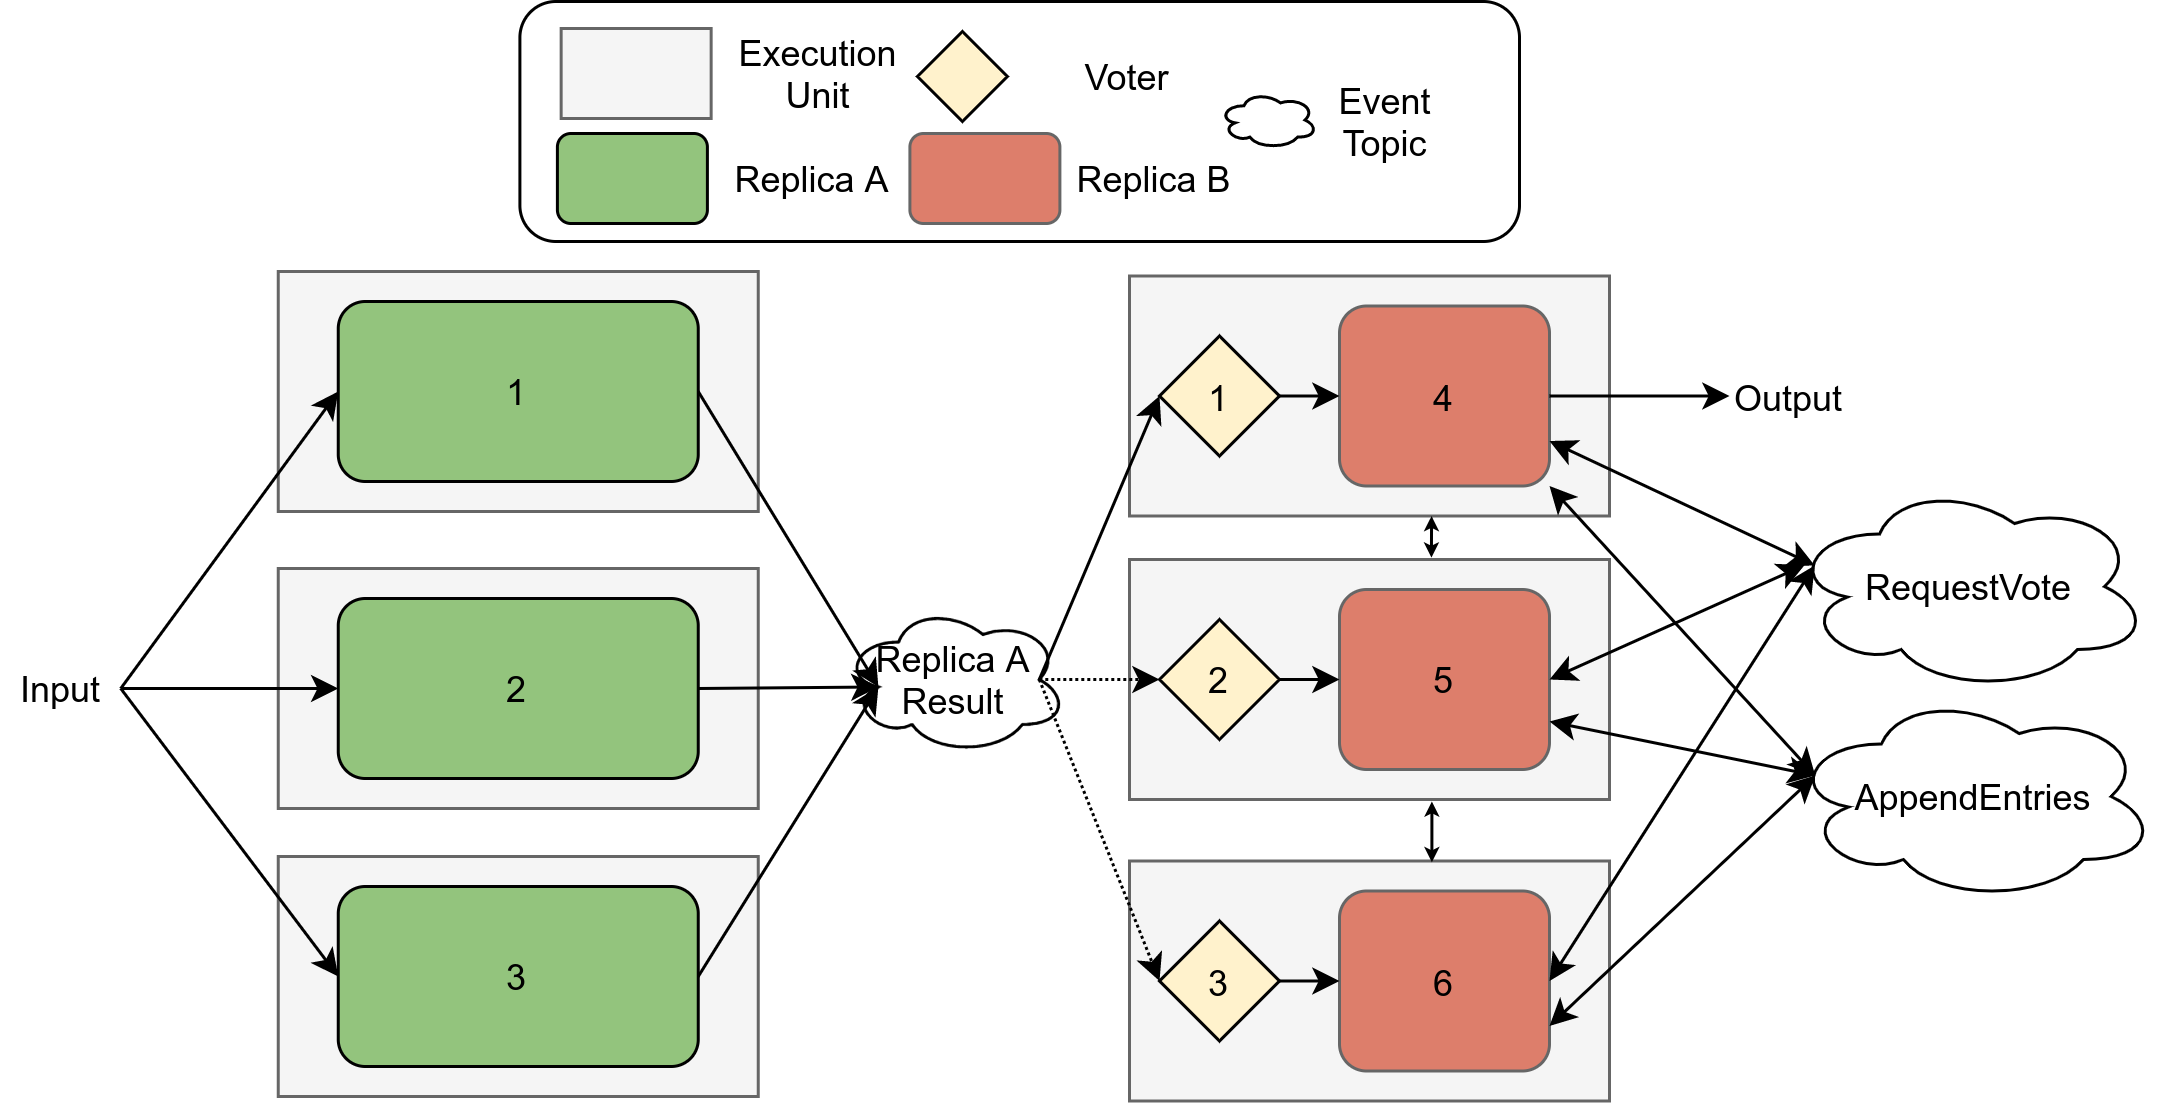
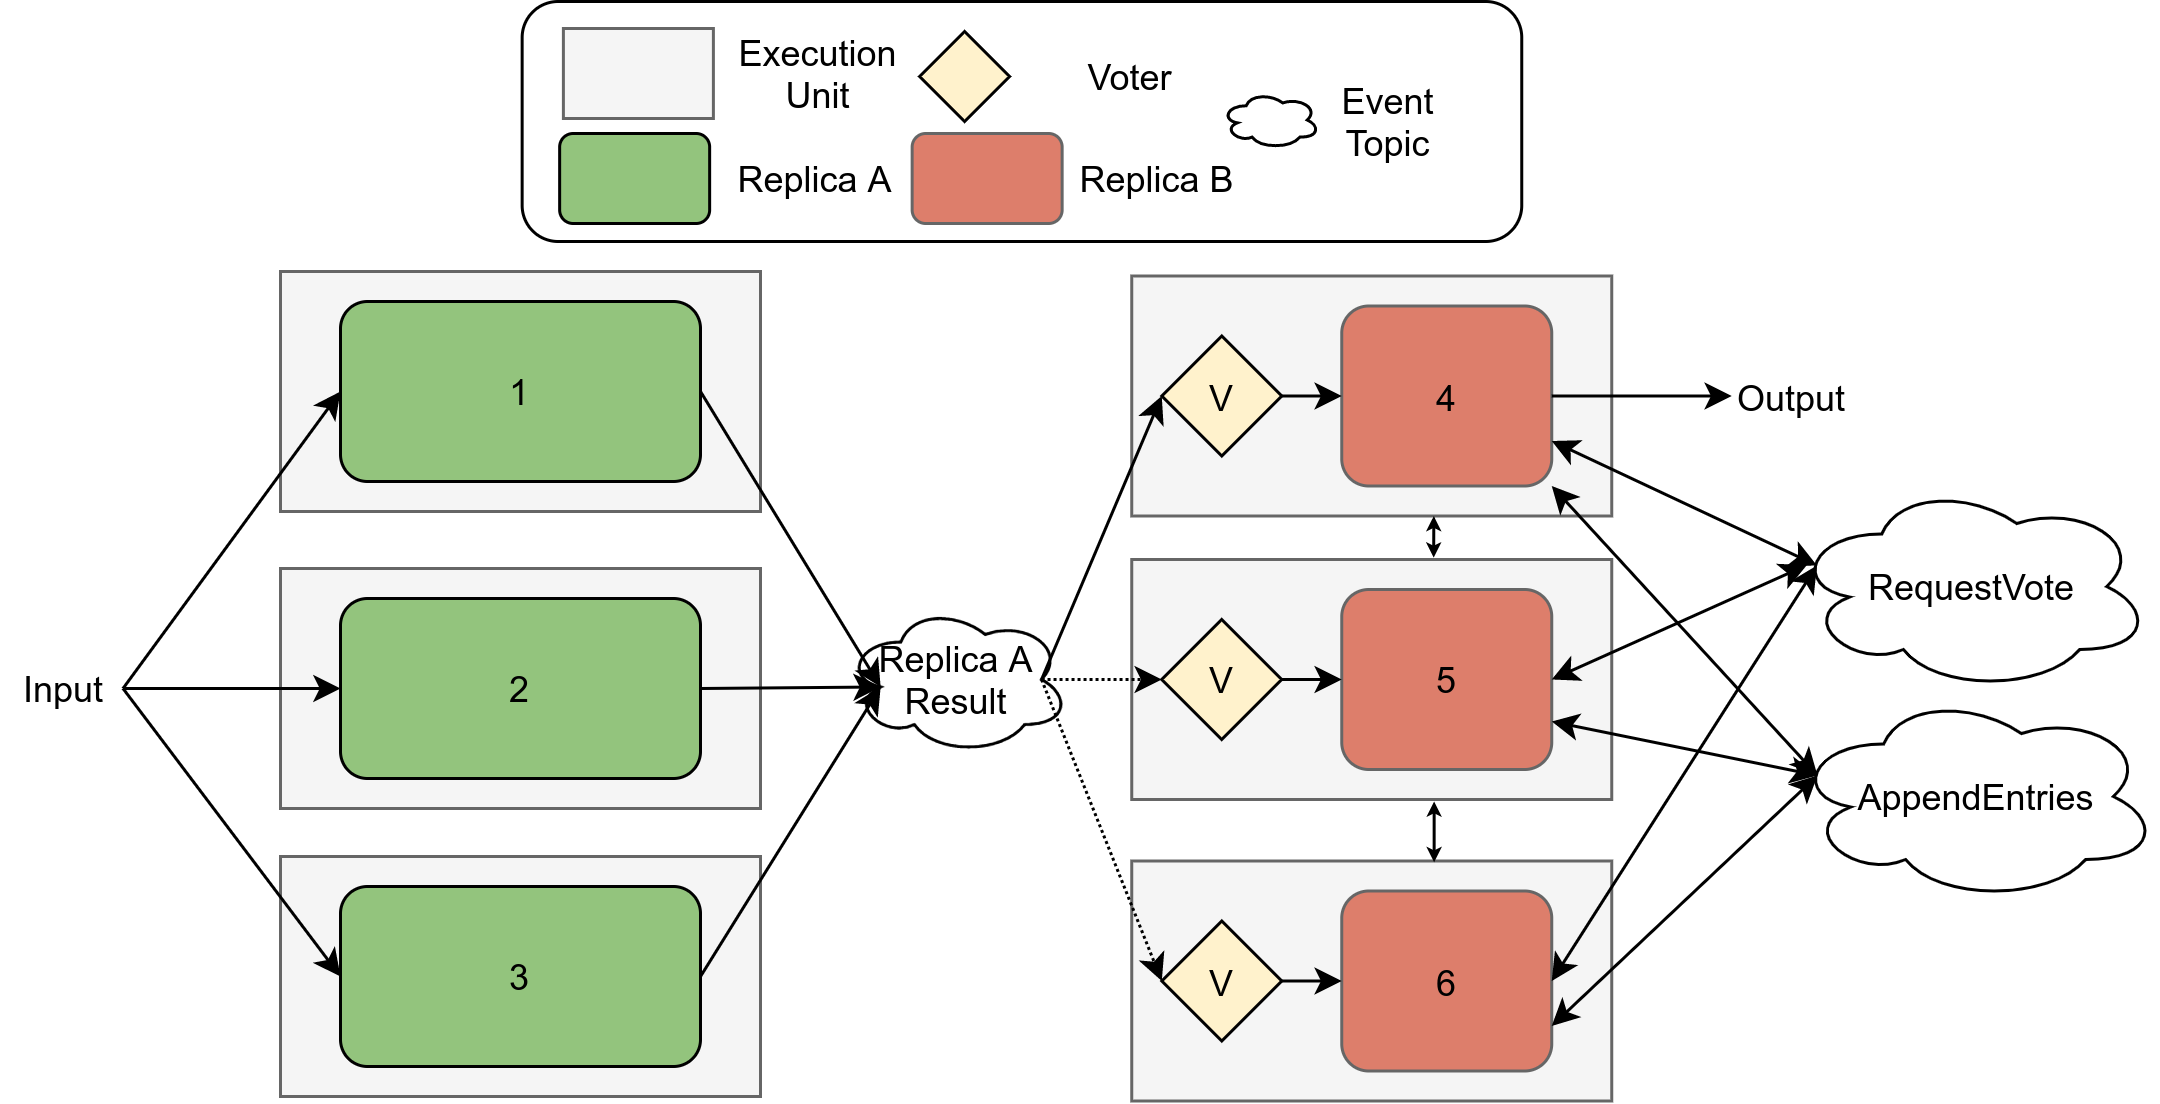
Add section about hot standby

diff --git a/content/chapter3.tex b/content/chapter3.tex
@@ -14,18 +14,20 @@ At least two \abrpl{RPC} need to be supported, namely \texttt{AppendEntries} and
 
 \autoref{fig:ThreeRepConsensusDDS} shows how the concept of \texttt{Raft}, with its roles and \abrpl{RPC}, can be implemented within a pipelined approach using \abr{DDS}.
 In this example, the replicas of type (A) publish their intermediate results in a \abr{DDS} event topic, which can be read by the individual voters.
-Voter (1) with its replica (4) took over the leader role and thereby controls the system's output by performing a majority voting over the intermediate results.
+Replica (4) with its corresponding voter took over the leader role and thereby controls the system's output by performing a majority voting over the intermediate results.
 In addition, the leader publishes periodic heartbeat messages to the \texttt{AppendEntries} topic, which are received by the followers (5) and (6).
 When a heartbeat message stayed out for a period, the system assumes that the leader has crashed and the followers initiate a new leader election using the \texttt{RequestVote} topic.
 When a new leader is elected, it gains complete control over the output, subscribes to the \texttt{Replica A Result} topic, and starts sending heartbeat messages.
 In the event of the previous leader coming back online again, it subscribes to \texttt{AppendEntries}, receives heartbeat messages and thereby takes over a follower role.
-Thereby, crash faults (\textbf{F1}) for voters are caught by the heartbeat mechanism.
+Thereby, crash faults (\textbf{F1}) for voters can be caught by the heartbeat mechanism.
 \\
 
 In this chapter, a practical realization is presented which implements a redundant architecture that applies a consensus algorithm based on the model of \texttt{Raft}.
 The aim of this implementation is to showcase the practicability and performance of a redundant architecture that applies \abr{DCPS} concepts for finding a consensus.
-Although the implementation will follow the approach presented in~\autoref{fig:ThreeRepConsensusDDS}, the logic from both replica type (A), type (B) and the voters will be merged into one physical component, so that three instead of six replicas will be used.
-However, the approach can simply be spread out to six replicas by distributing the logic accordingly.
+In addition, a minimal required subset of \abr{DDS} features will be carved out to solve the architecture.
+Although the implementation will follow the concept presented in~\autoref{fig:ThreeRepConsensusDDS}, only three physical components will be used that combine the logic from both replica type (A) and type (B), as well as a voter.
+However, the presented approach does not differ from~\autoref{fig:ThreeRepConsensusDDS} in any other ways than in the usage of three execution units instead of six.
+Therefore, it can simply be spread out to six replicas by distributing the logic accordingly.
 
 The communication channel is implemented via \textit{Ethernet} and no information redundant communication channel is applied in this demonstration.
 Further, no N-version programming is applied, which means that each replica runs the same software implementation.
@@ -44,12 +46,12 @@ The used \abr{OS} is an extended \textit{Raspbian} \abr{OS} that has been patche
 
 In this section, a consensus algorithm that follows the concepts of \texttt{Raft} and applies the \abr{DDS} publish/subscribe communication pattern, is presented.
 In order for the application to notice available data samples, \texttt{WaitSets} are used.
-\texttt{WaitSets} are preferred over \texttt{Listeners}, because they are state-based rather than event-based, which means they trigger as long as a certain state is present rather than when an event is triggered.
+\texttt{WaitSets} are preferred over \texttt{Listeners} because they are state-based rather than event-based, which means they trigger as long as a certain state is present rather than when an event is triggered.
 Thereby, it can be ensured that no available data is missed.
 Further, by using \texttt{WaitSets}, the entire control about the application is managed by the application itself and no application code is executed in middleware threads.
 \\
 
-The system's state is stored in \abr{DDS} state topics and thereby managed by the middleware.
+The system's state is stored as a global state in \abr{DDS} state topics and thereby managed by the middleware.
 This ensures that all replicas can operate on the most recent system state and no replica becomes outdated.
 Only the system's leader is permitted to alter the system's state, all other replicas have read-only access.
 \\
@@ -60,7 +62,7 @@ Time in \texttt{Raft} is subdevided into \textit{terms}, that each start with a 
 \subsection{Leader Election}
 \begin{figure}[!hb]
 	\centering
-	\includegraphics[width=0.75\linewidth]{images/sequence/CollectResults}
+	\includegraphics[width=0.75\linewidth]{images/sequence/LeaderElection}
 	\caption{When a replica notices that the leader crashed, it becomes a candidate, votes for itself and sends vote requests to all remaining replicas. When enough votes were granted, it becomes the new leader and starts sending heartbeats. Otherwise, it retries to become leader in the next term.}
 	\label{fig:SeqLeaderElection}
 \end{figure}
@@ -68,21 +70,21 @@ Time in \texttt{Raft} is subdevided into \textit{terms}, that each start with a 
 The presence of a leader in the system is detected through heartbeat messages.
 When a replica does not receive a message from a leader for a specific period of time, called the \textit{election timeout}, it tries to become leader by initiating the voting process.
 A high level overview about the voting process, after the previous leader crashed, is depicted in~\autoref{fig:SeqLeaderElection}.
-Because of the way the \texttt{election timeout} is implemented (see~\autoref{subsub:timeConsiderations}, replica 1 notices the crashed leader first and tries to become the new leader.
-Therefore, it switches into candidate mode and sends a vote request to each remaining replica.
+Replica 1 notices the crashed leader first and tries to become the new leader by switching into candidate mode and sending a vote request to each remaining replica.
 In the exemplary case in~\autoref{fig:SeqLeaderElection}, replica 2 accepts the vote request and replica 1 becomes the new leader.
 It immediately starts sending heartbeat messages afterwards.
 \\
 In the following, the allocation, as well as the collection of votes, will be discussed in more detail.
-\\
-\begin{algorithm}[H]\caption{Algorithm for vote allocation. Whether a vote gets granted or rejected depends on whether the replica that receives the vote request has already voted for another replica in the current voting's term.}\label{algo:VoteAllocation}
-\SetKwData{Term}{term}
-\SetKwData{Sender}{senderID}
+\\\\
+\begin{algorithm}[H]
+\caption{Algorithm for vote allocation. Whether a vote gets granted or rejected depends on whether the replica that receives the vote request has already voted for another replica in the current voting's term.}\label{algo:VoteAllocation}
+\SetKwData{Term}{\textit{term}}
+\SetKwData{Sender}{\textit{senderID}}
 \SetKwInOut{Input}{input}
 \SetKwInOut{Output}{output}
 
-\Input{A vote request with a \textit{\Term} and a \textit{senderID}}
-\Output{true if the vote for \textit{senderID} in \textit{\Term} was granted, false otherwise}
+\Input{A vote request with a \Term and a \Sender}
+\Output{true if the vote for \Sender in \Term was granted, false otherwise}
 \BlankLine
 \If{\Term $<$ current term}{become follower in new \Term\;}
 \If{\Term $==$ current term \textbf{AND} not voted in current term}{grant vote for \Sender\;}
@@ -91,15 +93,15 @@ In the following, the allocation, as well as the collection of votes, will be di
 The allocation of votes is shown in~\autoref{algo:VoteAllocation}.
 Each replica can only vote for a single other replica in each term.
 Because the system's state is managed globally by \abr{DDS}, every replica is equally up to data so that vote allocation is implemented in a first-come-first-serve manner.
-As soon as a vote request is received that has a higher term number than the replica's term, is automatically transitions into the follower state, because the system will soon have a new leader.
-
-\begin{algorithm}[H]\caption{Algorithm for vote collection. Only votes that were answered in the same term that the vote request was issued are considered. When enough votes are collected, the replica becomes leader. If a votes was answered in a more recent term, the vote collection gets abborted and the replica becomes a follower.}\label{algo:VoteCollection}
-\SetKwData{VoteTerm}{voteTerm}
-\SetKwData{VoteGranted}{voteGranted}
+As soon as a vote request is received that has a higher term number than the replica's term, is automatically transitions into the follower state, because the system will have a new leader in the new term.
+\\\\
+\begin{algorithm}[H]\caption{Algorithm for vote collection. Only votes that were answered in the same term that the vote request was issued are considered. When enough votes are collected, the replica becomes leader. If a votes was answered in a more recent term, the vote collection gets aborted and the replica becomes a follower.}\label{algo:VoteCollection}
+\SetKwData{VoteTerm}{\textit{voteTerm}}
+\SetKwData{VoteGranted}{\textit{voteGranted}}
 \SetKwInOut{Input}{input}
 \SetKwInOut{Output}{output}
 
-\Input{A vote reply with a \textit{\VoteTerm} and a \textit{\VoteGranted} flag}
+\Input{A vote reply with a \VoteTerm and a \VoteGranted flag}
 \Output{Transition to either leader or follower state}
 \BlankLine
 
@@ -109,8 +111,9 @@ become follower\;
 return\;}
 \If{\VoteTerm $==$ term when election started \textbf{AND} vote got granted}{
 Increase number of granted votes in the election term\;
-	\lIf{got enough votes}{become leader
-							return\;}
+	\If{got enough votes}{
+	become leader\;
+	return\;}
 }
 \end{algorithm}
 
@@ -130,11 +133,11 @@ The number of necessary voted depends on the total number of replicas in the sys
 
 During the entire time, each replica is in one of three states, namely \texttt{Leader}, \texttt{Candidate} or \texttt{Follower}.
 The leader election process can be summarized as transitions and corresponding conditions between these three states, as depicted in~\autoref{fig:RaftServerStates}.
-Fife requirements can be derived from this that must be met by an algorithm that implements \texttt{Raft}'s leader election process:
+Five requirements can be derived from the figure that must be met by an algorithm that implements \texttt{Raft}'s leader election process:
 
 \begin{enumerate}
 \item \textbf{Start Election:} A follower becomes candidate, increments its term, votes for itself and sends a message to all other replicas stating that it wants to become leader.
-\item \textbf{End of Election:} A candidate stays in candidate state until it either wins the election, receives information about another leader in the system, or times out.
+\item \textbf{End of Election:} A candidate remains in candidate state until it either wins the election, receives information about another leader in the system, or times out.
 \item \textbf{Won Election:} A candidate wins the election if it receives votes from a majority of replicas in the same term. Each replica votes for at most one replica in a given term.
 \item \textbf{Lost Election:} When a candidate receives a message from a leader in the system and the leader's term is at least as high as the candidate's term.
 \item \textbf{No Result:} A certain period of time goes by without the candidate winning or loosing the election.
@@ -142,6 +145,7 @@ Fife requirements can be derived from this that must be met by an algorithm that
 In the following, it is described how these requirements are met by using \abr{DDS} features.
 Thereby, the functional correctness of the transcribed leader election algorithm is proven.
 
+\todo{entries}
 \lstset{language=C}
 \begin{lstlisting}[caption={\abr{IDL} definition for the \texttt{AppendEntries} topic. The \texttt{term} variable represents the latest term that the replica has seen, while the \texttt{senderID} encodes which replica sent this message.}, label=code:appendEntries]
 struct AppendEntries {
@@ -185,7 +189,7 @@ When the timeout expires, the replica starts to wait for heartbeat messages agai
 In addition to the timeout, a \texttt{QueryCondition} is attached to the \textit{leaderElection\_WaitSet} that triggers when messages from another leader have been published to the \texttt{AppendEntries} topic.
 Thereby, \textbf{Lost Election} is ensured.
 By implication, this means that the candidate either won the election, or the election was not successful for the turn, when the timeout attached to \textit{leaderElection\_WaitSet} expires.
-Even though the replica waits for incoming heartbeats after it won the election, the applied \texttt{QueryCondition} prevents that it reads its own heartbeats.
+Even though the replica waits for incoming heartbeats after it won the election, the applied \texttt{QueryCondition} prevents that it from reading its own heartbeats.
 This partly solves \textbf{Won Election}.
 In order to fully solve \textbf{Won Election}, each replica needs to collect votes and reply to vote requests, parallel to detecting other leaders and voting timeouts.
 The voting part is therefore treated by another \abr{OS} thread, that again makes use of a \texttt{WaitSet}, where two \texttt{QueryConditions} are attached to, one for the \texttt{RequestVote} and one for the \texttt{RequestVoteReply} topic.
@@ -196,13 +200,13 @@ Thereby, the replicas can come to an agreement about a vote request while the ca
 Because each \texttt{WaitSet} in \abr{DDS} can be attached with a timeout, the maximal time that the system is without a leader can be determined.
 There are two timeouts involved in the leader election process, namely the \textit{election timeout}, whereby a missing leader is elected, and the \textit{leader ready timeout}.
 When the \textit{leader ready timeout} expires, it was impossible for the system to elect a new leader for the given term.
-This can, for example, happen due split votes when multiple followers try to become the new leader at the same time, because of delays on the network, or because there are not enough running replicas in the system.
+This can, for example, happen due split votes when multiple followers try to become the new leader at the same time, because of delays on the network, or because there are not enough active replicas in the system.
 The proposal that \texttt{Raft} makes to reduce the risk of split votes is to use randomized \textit{election timeouts}.
 However, this does not prevent split votes from happen at all.
 Therefore, in this implementation, the \textit{election timeout} is made directly dependent on the replicas unique identification number, so that they never try to become leader at the same time.
 Although replicas with certain identification numbers are thereby preferred in the leader election process, this approach is not a disadvantage because, due to \abr{DDS}'s global data space, no replica is ever more suitable for becoming the new leader than some other.
 
-On the other hand, the cases of network delays or too few replicas in the system represent a safety risk and should be dealt with accordingly.
+On the other hand, in the cases of network delays or too few active replicas are safety risks and should be dealt with accordingly.
 
 \todo{There is also some more processing time}
 Altogether, when enough replica are present in the system and communication is possible without any delays, the system will not be without a leader for the maximum time of $\textit{election timeout} + \textit{leader ready timeout}$
@@ -233,6 +237,43 @@ Thereby, the decisions for all replicas are deterministic because they are all b
 Furthermore, the input message is marked as processed during the commit phase.
 This ensures that, if the leader crashed while processing the input message, a new leader recognizes the input messages as unprocessed and starts to process it again.
 \todo{Further explain how message is marked as processed}
+
+
+\subsection{Hot Standby}
+\begin{lstlisting}[caption={\abr{IDL} definition for the \texttt{ActivateSpare} topic. This topic is used to activate or deactivate spare replicas. The \texttt{term} field encodes the term in which the activate or deactivate call has been made and \texttt{activate} gets interpreted as a boolean that encodes whether the spare should be activated or deactivated.}, label=code:activateSpare]
+struct ActivateSpare {
+    long term;
+    long activate;
+};
+#pragma keylist ActivateSpare
+\end{lstlisting}
+
+\begin{figure}[!hb]
+	\centering
+	\includegraphics[width=0.75\linewidth]{images/sequence/ActivateSpare}
+	\caption{When the leader, after reading an input message and instructing its followers to process the input, receives too few decisions after a certain time, it activates the spare replica. When the follower receives more than necessary, the spare component gets deactivated again.}
+	\label{fig:SeqActivateSpare}
+\end{figure}
+
+A method for adding hot standby spare replicas to the system using \abr{DDS} topics has been depicted in~\autoref{fig:TMRWithSparesDDS}.
+To put this approach into practice, a new topic was introduces, called \texttt{ActivateSpare}, whose \abr{IDL} is depicted in~\autoref{code:activateSpare}.
+Any activate and deactivate message is sent via the \texttt{ActivateSpare} topic.
+The additional logic merges into the log replication logic and is depicted in~\autoref{fig:SeqActivateSpare}.
+When collecting all decisions from the follower replicas, the leader activates or deactivates the spare component when receiving too few or too much decisions, respectively.
+Any spare replica is initialized in spare mode and thereby excluded from making decisions, from becoming a candidate or leader, and from participating in the leader election process.
+After being activated by the leader, the spare component tansitions into follower state and can therefore make decisions when asked by the leader and vote for new leaders during the leader election process.
+However, since they are required to be deactivated when too many replicas are active, any replica that has been a spare component is excluded from becoming the system's leader.
+
+While in \texttt{Spare} state, a replica utilizes a \texttt{WaitSet} to wait for any activate message.
+When an activated spare component receives a message from the leader that should be processed, it checks whether the leader has deactivated the spare beforehand.
+When this is the case, it transitions into \texttt{Spare} mode again and discards any other message.
+Because of timing issues such as network delays, it can happen that an activated spare receives a \textit{deactivate} message after it processed the leader's order.
+Therefore, it can happen that the leader gets more replies than there are active components in the system.
+It is the leader's responsibility to handle these additional decisions appropriately.
+\\
+
+Only a single spare component is currently supported in the exemplary implementation.
+However, multiple spare components can easily be added by introducing a \texttt{spareID} field in the topic's data that encodes the identification number for the spare to activate.
 
 
 % TODO Further specify
